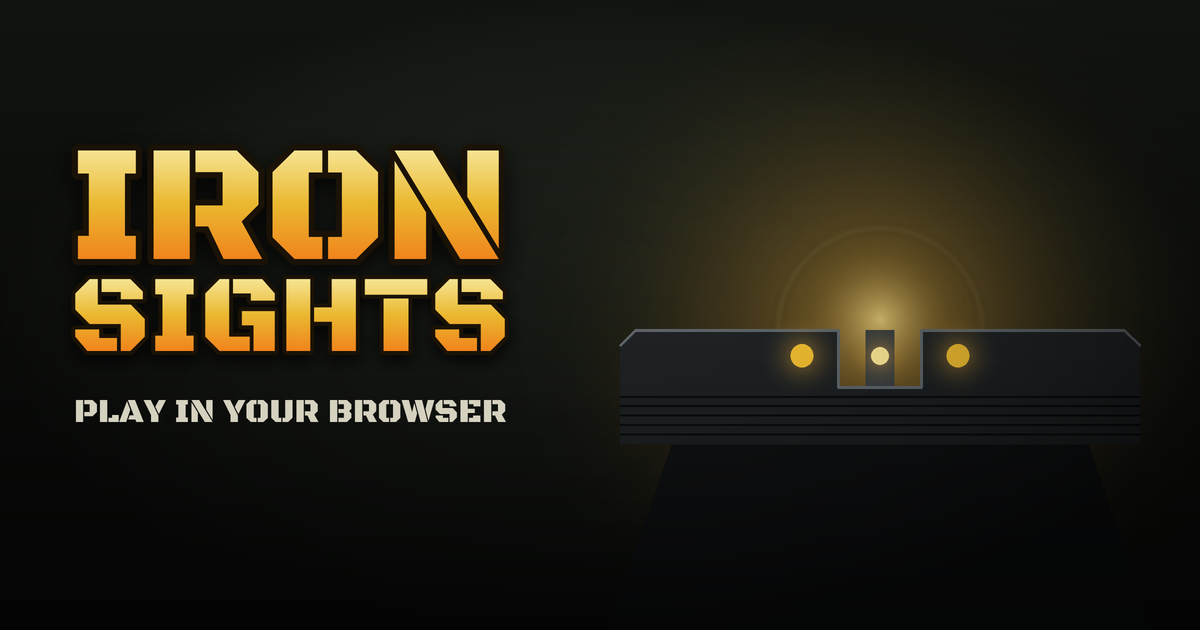
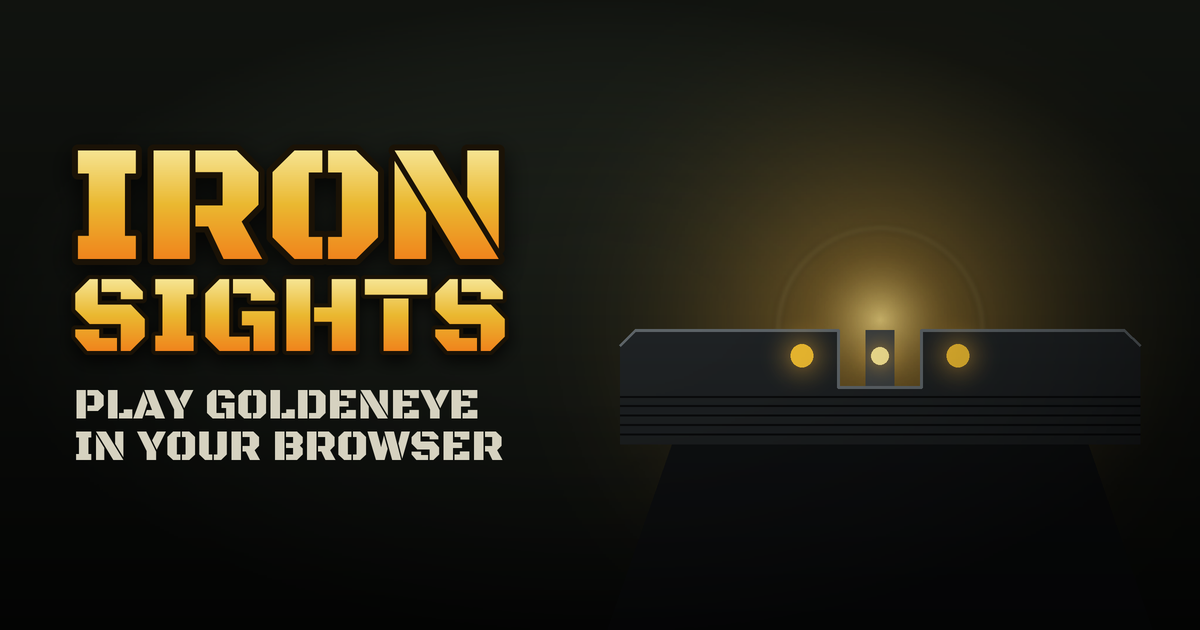
Name GoldenEye on the link-preview image
The card's subtitle now reads "Play GoldenEye / in your browser" on two
lines of one size, so it stays legible in small previews, and the image's
alt text includes those words.

Changed region(s): [[0.0617, 0.6032, 0.4317, 0.754]]

diff --git a/web/index.html b/web/index.html
@@ -21,7 +21,7 @@
         />
         <meta property="og:image:width" content="1200" />
         <meta property="og:image:height" content="630" />
-        <meta property="og:image:alt" content="Iron Sights: three-dot pistol sights glowing gold" />
+        <meta property="og:image:alt" content="Iron Sights: play GoldenEye in your browser. Three-dot pistol sights glowing gold." />
         <meta name="twitter:card" content="summary_large_image" />
         <title>Iron Sights · Play GoldenEye 007 in your browser</title>
     </head>

diff --git a/scripts/port/make_brand_art.py b/scripts/port/make_brand_art.py
@@ -306,12 +306,17 @@ def title(image, font_path, lines, box):
         y += (y1 - y0) + round(font.size * 0.12)
 
 
-def subtitle(image, font_path, text, box):
-    """One plain light line, scaled to box=(left, top, width)."""
+def subtitle(image, font_path, lines, box):
+    """Plain light lines at one size, the widest filling box=(left, top, width)."""
     left, top, width = box
-    font = fit_font(font_path, text, width)
-    x0, y0, _, _ = font.getbbox(text)
-    ImageDraw.Draw(image).text((left - x0, top - y0), text, font=font, fill=SUBTITLE + (255,))
+    probe = ImageFont.truetype(str(font_path), 100)
+    widest = max(lines, key=lambda text: probe.getbbox(text)[2] - probe.getbbox(text)[0])
+    font = fit_font(font_path, widest, width)
+    y = top
+    for text in lines:
+        x0, y0, _, y1 = font.getbbox(text)
+        ImageDraw.Draw(image).text((left - x0, y - y0), text, font=font, fill=SUBTITLE + (255,))
+        y += (y1 - y0) + round(font.size * 0.3)
 
 
 def finish(image, size, path):
@@ -360,7 +365,7 @@ def render(font_path):
     sight_picture(image, 880 * s, 330 * s, 520 * s)
     vignette(image, 0.5)
     title(image, font_path, ("IRON", "SIGHTS"), (70 * s, 150 * s, 440 * s))
-    subtitle(image, font_path, "PLAY IN YOUR BROWSER", (74 * s, 400 * s, 432 * s))
+    subtitle(image, font_path, ("PLAY GOLDENEYE", "IN YOUR BROWSER"), (74 * s, 390 * s, 432 * s))
     finish(image, size, SOCIAL_CARD)
 
 

diff --git a/FORK_CHANGES.md b/FORK_CHANGES.md
@@ -6401,7 +6401,11 @@ It deliberately keeps `display: browser`: an iOS standalone Home Screen app
 gets storage separate from Safari, which would split the remembered ROM and
 saves. That mode waits for a device test.
 
-The 1200x630 preview image and the manifest icons are `make_brand_art.py`
+The 1200x630 preview image shows the gold title beside the sight picture,
+over two lines reading "PLAY GOLDENEYE / IN YOUR BROWSER" (the owner's
+wording; previously "PLAY IN YOUR BROWSER" on one line). The two lines share one
+size, so the text stays legible when previews are shown at half size. The
+preview image and the manifest icons are `make_brand_art.py`
 outputs (FORK-059), published unhashed from `web/public` so the absolute
 `og:image` URL stays stable. `verify-site.ts` allows the manifest and exactly
 the `web/public` images recorded in `scripts/port/brand-art.sha256`
